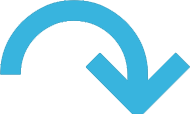
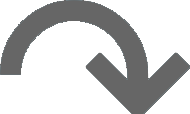
checkout screen fix

diff --git a/app/assets/stylesheets/products.css.scss b/app/assets/stylesheets/products.css.scss
@@ -240,10 +240,11 @@ top:0px;
 }
 .payment_product_info{
   position:relative;
-  bottom:40px;
-  font-family:'myriad-s';
+  bottom:280px;
+  left:250px;
+  font-family:'myriad';
   font-size:20px;
-  color:#38B4DE;
+  color:#666;
 
 }
 .product_after_selling{
